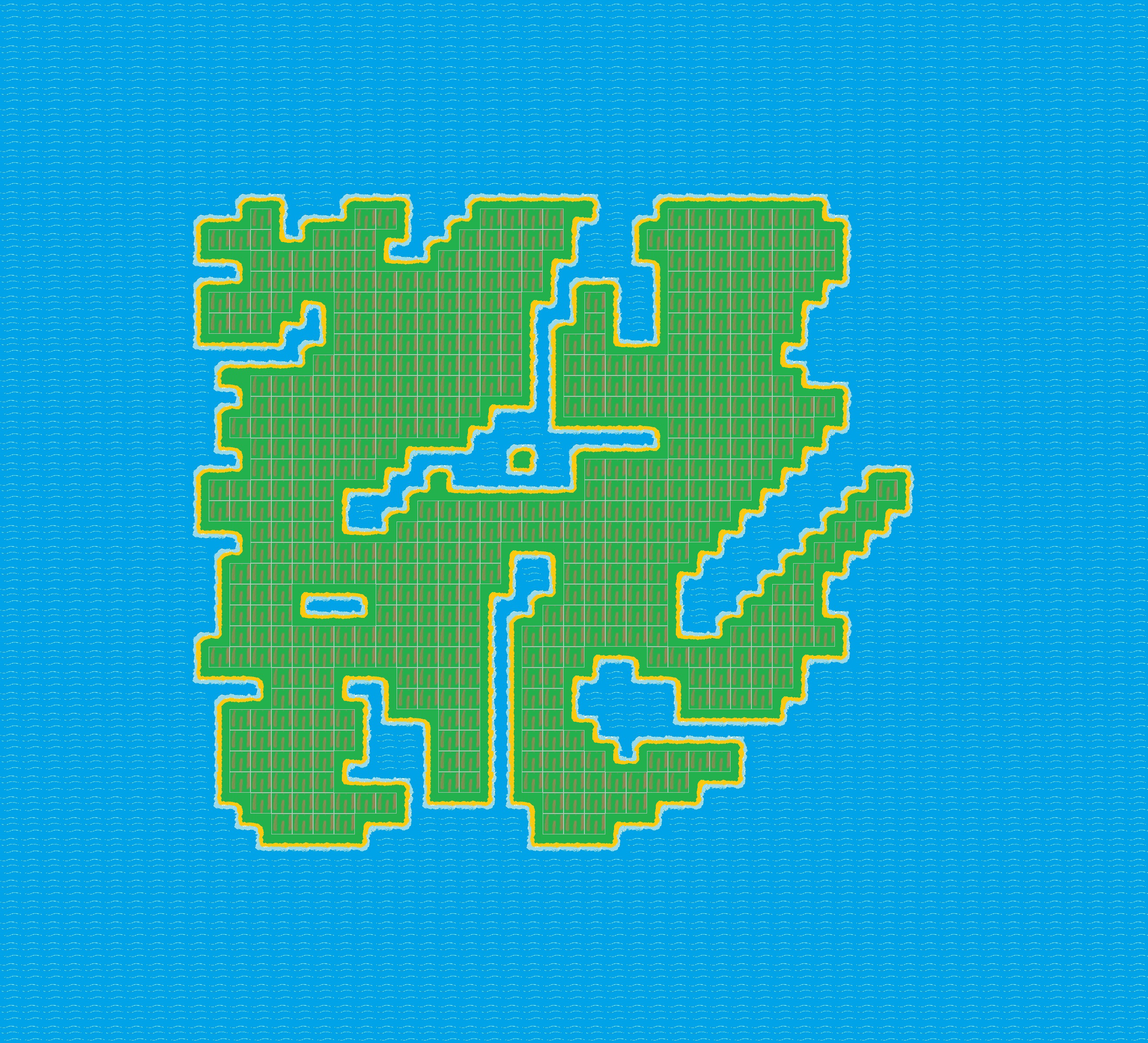
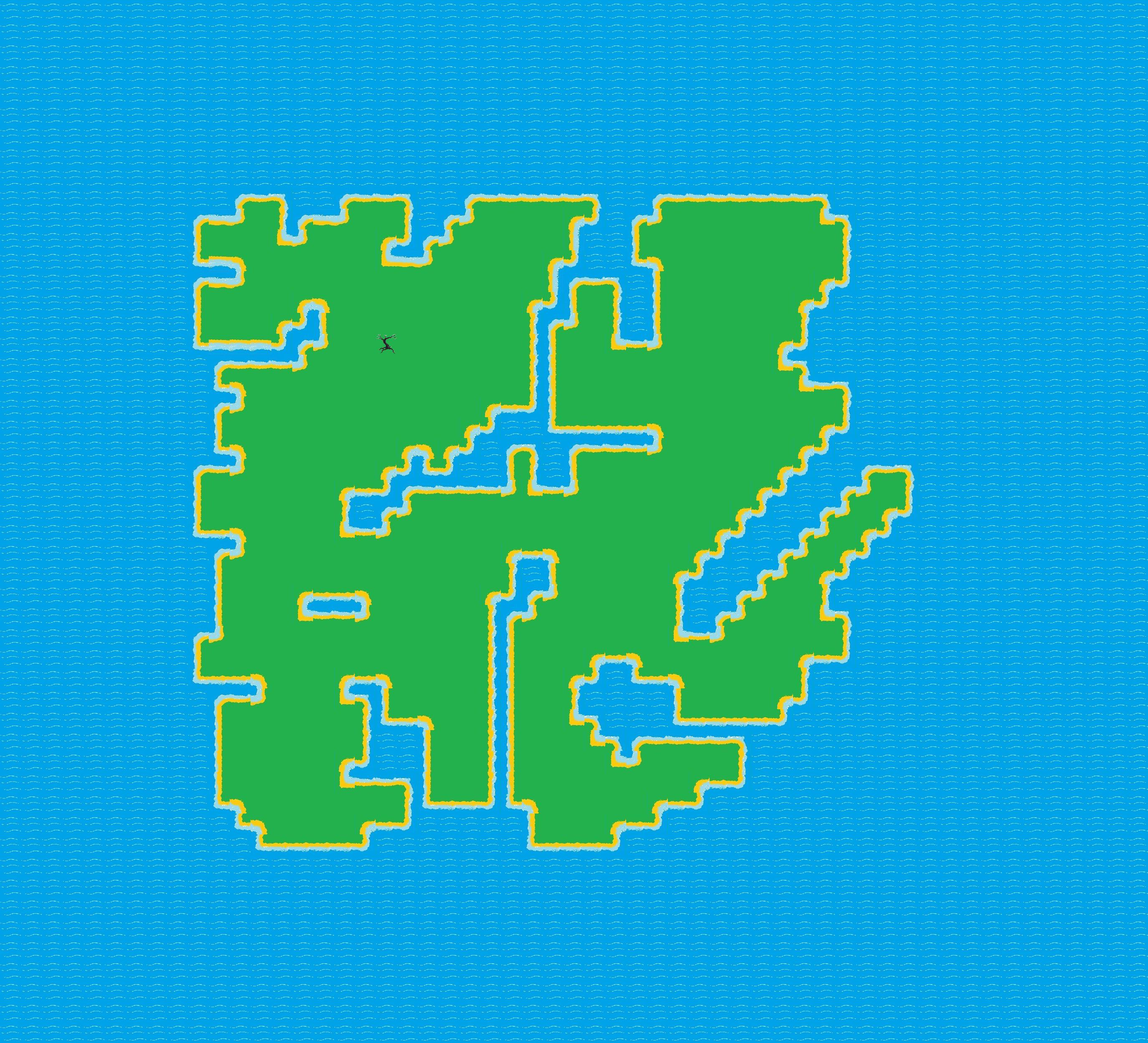
Added a few tiles and pictuers. Added a Rat.

Changed region(s): [[0.1545, 0.1872, 0.8036, 0.8112]]

diff --git a/Game3/src/tiles/Tile.java b/Game3/src/tiles/Tile.java
@@ -13,21 +13,13 @@ public class Tile
 {
 	static public final int GREEN = 1;
 	static public final int WATER = 2;
-	static public final int SHORE = 3;
-	
-	static public final int SHORE_LEFT = 3;
-	static public final int SHORE_UP_LEFT = 4;
-	static public final int SHORE_UP= 5;
-	static public final int SHORE_UP_RIGHT = 6;
-	static public final int SHORE_RIGHT= 7;
-	static public final int SHORE_DOWN_RIGHT = 8;
-	static public final int SHORE_DOWN = 9;
-	static public final int SHORE_DOWN_LEFT = 10;
-	
-	static public final int SHORE_UP_LEFT_INV = 11;
-	static public final int SHORE_UP_RIGHT_INV = 12;
-	static public final int SHORE_DOWN_RIGHT_INV = 13;
-	static public final int SHORE_DOWN_LEFT_INV = 14;
+	static public final int SHORE = 3; // 3 - 20
+	static public final int DEAD_TREE = 21;
+	static public final int TRUNK = 22;
+	static public final int BIG_STONE = 23;
+	static public final int TOP_GREEN_TREE = 24;
+	static public final int BOT_GREEN_TREE = 28;
+
 	
 	private Creature c = null;
 	private ArrayList<Item> items = null;
@@ -57,6 +49,19 @@ public class Tile
 				
 			case SHORE: case 4:case 5:case 6:case 7:case 8:case 9:case 10:case 11:case 12:case 13:case 14:case 15:case 16:case 17:case 18:case 19:case 20:
 				return new ShoreTile(pos);
+				
+			case DEAD_TREE:
+				return new DeadTree(pos);
+			
+			case TRUNK:
+				return new Trunk(pos);
+				
+			case BIG_STONE:
+				return new BigStone(pos);
+				
+			case BOT_GREEN_TREE: case TOP_GREEN_TREE:
+				return new GreenTree(pos);
+
 				
 			default:
 				return new WaterTile(pos);

diff --git a/Game3/src/creatures/Rat.java b/Game3/src/creatures/Rat.java
@@ -1,0 +1,68 @@
+package creatures;
+
+import game_3_core.Position;
+import game_3_core.SimpleGame;
+import items.Dead_Rat;
+import items.Dead_wolf;
+import items.Item;
+
+import org.newdawn.slick.Animation;
+import org.newdawn.slick.Image;
+import org.newdawn.slick.SlickException;
+
+import GUI.Status;
+import GUI.Map;
+import abilities.Spell;
+
+public class Rat extends Creature
+{
+	public Rat(Position pos, Map world)
+	{	
+		super(pos, world);
+
+		setName("Rat");
+		setStatus(new Status(this));
+		setDead(false);
+		setSee("You see a Rat.");
+		setSpeed(800);
+		setMaxhp(25);
+		setHp(25);
+		
+		try 
+		{
+			setPic(new Image ("Pics/Rat.png"));
+		} 
+		catch (SlickException e) 
+		{
+			System.out.println("Fail to create picture - rat");
+		}
+		
+		try
+		{
+			Image pic1 = new Image ("Pics/Rat.png");
+			
+			Image[] pics = {pic1};
+			int[] durations = {10000};
+			
+			setAnim(new Animation(pics, durations));
+		}
+		catch (Exception e)
+		{
+			System.out.println("Fail to create animation - rat");
+		}
+		
+	}
+
+	@Override
+	public int cast_spell(Spell spell)
+	{
+		// TODO Auto-generated method stub
+		return 0;
+	}
+
+	public Item getDeadItem() 
+	{	
+		return (new Dead_Rat(getPos()));
+	}
+
+}

diff --git a/Game3/src/game_3_core/SimpleGame.java b/Game3/src/game_3_core/SimpleGame.java
@@ -7,18 +7,16 @@ import java.util.Random;
 
 import org.newdawn.slick.AppGameContainer;
 import org.newdawn.slick.BasicGame;
-import org.newdawn.slick.Color;
 import org.newdawn.slick.GameContainer;
 import org.newdawn.slick.Graphics;
 import org.newdawn.slick.Image;
 import org.newdawn.slick.SlickException;
 
 import sui.Display;
-import sui.Label;
-import sui.Popup;
 import GUI.Map;
 import GUI.MyChat;
 import creatures.Player;
+import creatures.Rat;
 import creatures.Wolf;
   
 public class SimpleGame extends BasicGame
@@ -68,7 +66,7 @@ public class SimpleGame extends BasicGame
     	 ch = new CreatureHandler(player);
     	 
     	 wolf = new Wolf(new Position(15, 10), land); 
-    	 Wolf wolf2 = new Wolf(new Position(16, 10), land);
+    	 Rat wolf2 = new Rat(new Position(16, 10), land);
     	 ch.add_creature(wolf);
     	 ch.add_creature(wolf2);
     	

diff --git a/Game3/src/items/Dead_Rat.java b/Game3/src/items/Dead_Rat.java
@@ -1,0 +1,34 @@
+package items;
+
+import game_3_core.Position;
+import game_3_core.SimpleGame;
+
+import org.newdawn.slick.Image;
+
+
+public class Dead_Rat extends Container 
+{
+
+	public Dead_Rat(Position pos)
+	{
+		super(pos, 8);
+		setMovable(true);
+		setMoveItem(true);
+		setName("Dead_rat");
+		setSee("You see a dead Rat. It might have loot in it!");
+		initLoot();
+		try
+		{
+			 setPic(new Image("Pics/Dead_rat.png"));
+		}
+		catch (Exception e)
+		{
+			System.out.println("No image - dead rat");
+		}
+	}
+	
+	private void initLoot()
+	{
+		add_to_container(new GoldCoin(SimpleGame.start_player_pos, 3));	
+	}
+}

diff --git a/Game3/src/GUI/Map.java b/Game3/src/GUI/Map.java
@@ -53,11 +53,11 @@ public class Map
 		load_from_txt(name);
 		try
 		{
-			land_pic =  new Image("Maps/map2.jpg");
+			land_pic =  new Image("Maps/map2.png");
 		}
 		catch (Exception e)
 		{
-			System.out.println("Could not load map2.jpg!");
+			System.out.println("Could not load map2.png!");
 		}
 	}
 	

diff --git a/Game3/src/tiles/GreenTree.java b/Game3/src/tiles/GreenTree.java
@@ -1,0 +1,15 @@
+package tiles;
+
+import game_3_core.Position;
+
+public class GreenTree extends Tile 
+{
+	public GreenTree(Position pos)
+	{
+		super(pos);
+		setType(Tile.TOP_GREEN_TREE);
+		setCanPutItem(false);
+		setMovable(false);
+		setSee("You see a big green tree.");
+	}
+}

diff --git a/Game3/src/GUI/MyChat.java b/Game3/src/GUI/MyChat.java
@@ -317,7 +317,7 @@ public class MyChat
 		{
 			if (msg!=null)
 			{
-				g.setColor(Color.green);
+				g.setColor(Color.white);
 				int len_name = g.getFont().getWidth(msg);
 			    len_name = (Map.SIZE_OF_TILE - len_name)/2;
 			    g.drawString(msg, 350+len_name, 100);

diff --git a/Game3/src/tiles/BigStone.java b/Game3/src/tiles/BigStone.java
@@ -1,0 +1,15 @@
+package tiles;
+
+import game_3_core.Position;
+
+public class BigStone extends Tile 
+{
+	public BigStone(Position pos)
+	{
+		super(pos);
+		setType(Tile.BIG_STONE);
+		setCanPutItem(false);
+		setMovable(false);
+		setSee("You see a big stone.");
+	}
+}

diff --git a/Game3/src/tiles/DeadTree.java b/Game3/src/tiles/DeadTree.java
@@ -1,0 +1,15 @@
+package tiles;
+
+import game_3_core.Position;
+
+public class DeadTree extends Tile 
+{
+	public DeadTree(Position pos)
+	{
+		super(pos);
+		setType(Tile.DEAD_TREE);
+		setCanPutItem(false);
+		setMovable(false);
+		setSee("You see a dead tree.");
+	}
+}

diff --git a/Game3/src/tiles/Trunk.java b/Game3/src/tiles/Trunk.java
@@ -1,0 +1,15 @@
+package tiles;
+
+import game_3_core.Position;
+
+public class Trunk extends Tile 
+{
+	public Trunk(Position pos)
+	{
+		super(pos);
+		setType(Tile.TRUNK);
+		setCanPutItem(false);
+		setMovable(false);
+		setSee("You see a fallen tree.");
+	}
+}
